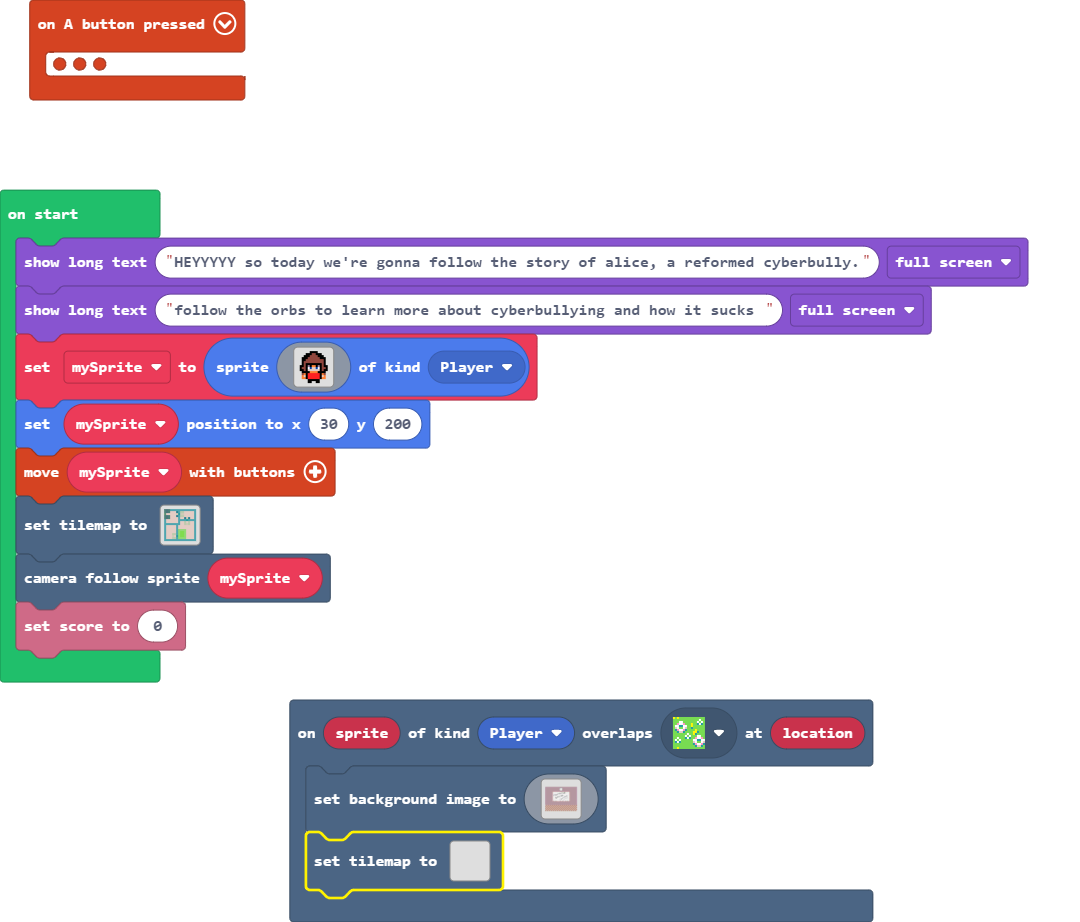
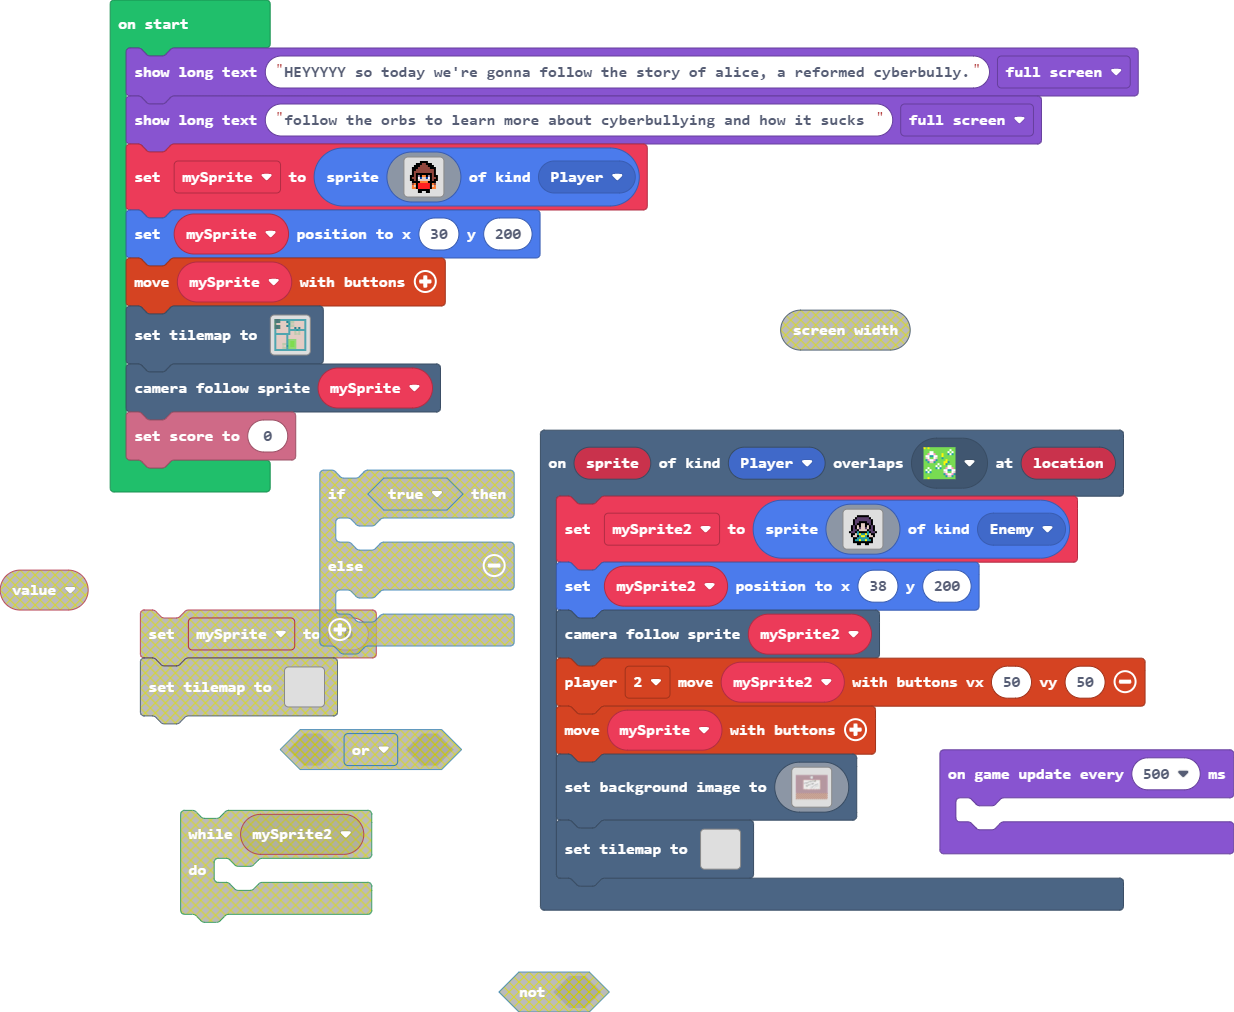
Update main.blocks, main.ts, tilemap.g.jres, tilemap.g.ts

diff --git a/main.ts b/main.ts
@@ -1,27 +1,29 @@
 namespace SpriteKind {
     export const bully = SpriteKind.create()
 }
-controller.A.onEvent(ControllerButtonEvent.Pressed, function () {
-    mySprite = sprites.create(img`
-        . . . . . . . . . . . . . . . . 
-        . . . . . . f f f f f f . . . . 
-        . . . . f f e e e e e e f . . . 
-        . . . f f e e e e e e e e f . . 
-        . . . f e e e e e e e e e e f . 
-        . . . f e e e e e e e e e e f . 
-        . . . f e e e e f f f f e e f . 
-        . . f f f f f f f e e e f f f . 
-        . . f f e 4 4 e b f 4 4 e e f . 
-        . . f e e 4 d 4 1 f d d e f . . 
-        . . . f e e e e e d d d f . . . 
-        . . . . . f 4 d d e 4 e f . . . 
-        . . . . . f e d d e 2 2 f . . . 
-        . . . . f f f e e f 2 2 f f . . 
-        . . . . f f f f f f f f f f . . 
-        . . . . . f f . . . f f f . . . 
-        `, SpriteKind.Player)
-})
 scene.onOverlapTile(SpriteKind.Player, sprites.castle.tileGrass2, function (sprite, location) {
+    mySprite2 = sprites.create(img`
+        . . . . . . . . . . . . . . . . 
+        . . . . . f f f f f f . . . . . 
+        . . . . f c c c c c c f . . . . 
+        . . . f c c c c c c c c f . . . 
+        . . . f c c f f f f c c f . . . 
+        . . . f c f f d d f f c f . . . 
+        . . f c f d f d d f d f c f . . 
+        . . f c f d c d d c d f c f . . 
+        . . f c c f d d d d f c c f . . 
+        . f c c f 6 f f f f 6 f c c f . 
+        . . f f d 6 5 6 6 5 6 d f f . . 
+        . . f d d f 6 5 5 6 f d d f . . 
+        . . . f f 6 6 6 6 6 6 f f . . . 
+        . . . f 6 6 5 6 6 5 6 6 f . . . 
+        . . . f f f f f f f f f f . . . 
+        . . . . . f f . . f f . . . . . 
+        `, SpriteKind.Enemy)
+    mySprite2.setPosition(38, 200)
+    scene.cameraFollowSprite(mySprite2)
+    controller.player2.moveSprite(mySprite2, 50, 50)
+    controller.moveSprite(mySprite)
     scene.setBackgroundImage(img`
         bbbbbbbbbbbbbbbbbbbbbbbbbbbbbbbbbbbbbbbbbbbbbbbbbbbbbbbbbbbbbbbbbbbbbbbbbbbbbbbbbbbbbbbbbbbbbbbbbbbbbbbbbbbbbbbbbbbbbbbbbbbbbbbbbbbbbbbbbbbbbbbbbbbbbbbbbbbbbbbb
         bbbbbbbbbbbbbbbbbbbbbbbbbbbbbbbbbbbbbbbbbbbbbbbbbbbbbbbbbbbbbbbbbbbbbbbbbbbbbbbbbbbbbbbbbbbbbbbbbbbbbbbbbbbbbbbbbbbbbbbbbbbbbbbbbbbbbbbbbbbbbbbbbbbbbbbbbbbbbbbb
@@ -144,8 +146,9 @@ scene.onOverlapTile(SpriteKind.Player, sprites.castle.tileGrass2, function (spri
         eeeeedddddeeeeedddddeeeeedddddeeeeedddddeeeeedddddeeeeedddddeeeeedddddeeeeedddddeeeeedddddeeeeedddddeeeeedddddeeeeedddddeeeeedddddeeeeedddddeeeeedddddeeeeeddddd
         eeeeedddddeeeeedddddeeeeedddddeeeeedddddeeeeedddddeeeeedddddeeeeedddddeeeeedddddeeeeedddddeeeeedddddeeeeedddddeeeeedddddeeeeedddddeeeeedddddeeeeedddddeeeeeddddd
         `)
-    tiles.setTilemap(tilemap`level5`)
+    tiles.setTilemap(tilemap`level7`)
 })
+let mySprite2: Sprite = null
 let mySprite: Sprite = null
 game.showLongText("HEYYYYY so today we're gonna follow the story of alice, a reformed cyberbully.", DialogLayout.Full)
 game.showLongText("follow the orbs to learn more about cyberbullying and how it sucks ", DialogLayout.Full)
@@ -172,3 +175,6 @@ controller.moveSprite(mySprite)
 tiles.setTilemap(tilemap`level1`)
 scene.cameraFollowSprite(mySprite)
 info.setScore(0)
+game.onUpdateInterval(500, function () {
+	
+})

diff --git a/tilemap.g.ts b/tilemap.g.ts
@@ -208,6 +208,44 @@ namespace myTiles {
 22222222222222222222222222222222222222222222222222222222222222222222222222222222
 22222222222222222222222222222222222222222222222222222222222222222222222222222222
 `, [myTiles.transparency16], TileScale.Sixteen);
+            case "level6":
+            case "level6":return tiles.createTilemap(hex`1000100000000000000000000000000000000000000000000000000000000000000000000000000000000000000000000000000000000000000000000000000000000000000000000000000000000000000000000000000000000000000000000000000000000000000000000000000000000000000000000000000000000000000000000000000000000000000000000000000000000000000000000000000000000000000000000000000000000000000000000000000000000000000000000000000000000000000000000000000000000000000000000000000000000000000000000000000000000000000000000000000000000000000000000000000000000000`, img`
+. . . . . . . . . . . . . . . . 
+. . . . . . . . . . . . . . . . 
+. . . . . . . . . . . . . . . . 
+. . . . . . . . . . . . . . . . 
+. . . . . . . . . . . . . . . . 
+. . . . . . . . . . . . . . . . 
+. . . . . . . . . . . . . . . . 
+. . . . . . . . . . . . . . . . 
+. . . . . . . . . . . . . . . . 
+. . . . . . . . . . . . . . . . 
+. . . . . . . . . . . . . . . . 
+. . . . . . . . . . . . . . . . 
+. . . . . . . . . . . . . . . . 
+. . . . . . . . . . . . . . . . 
+. . . . . . . . . . . . . . . . 
+. . . . . . . . . . . . . . . . 
+`, [myTiles.transparency16], TileScale.Sixteen);
+            case "level7":
+            case "level7":return tiles.createTilemap(hex`1000100000000000000000000000000000000000000000000000000000000000000000000000000000000000000000000000000000000000000000000000000000000000000000000000000000000000000000000000000000000000000000000000000000000000000000000000000000000000000000000000000000000000000000000000000000000000000000000000000000000000000000000000000000000000000000000000000000000000000000000000000000000000000000000000000000000000000000000000000000000000000000000000000000000000000000000000000000000000000000000000000000000000000000000000000000000000`, img`
+. . . . . . . . . . . . . . . . 
+. . . . . . . . . . . . . . . . 
+. . . . . . . . . . . . . . . . 
+. . . . . . . . . . . . . . . . 
+. . . . . . . . . . . . . . . . 
+. . . . . . . . . . . . . . . . 
+. . . . . . . . . . . . . . . . 
+. . . . . . . . . . . . . . . . 
+. . . . . . . . . . . . . . . . 
+. . . . . . . . . . . . . . . . 
+. . . . . . . . . . . . . . . . 
+. . . . . . . . . . . . . . . . 
+. . . . . . . . . . . . . . . . 
+. . . . . . . . . . . . . . . . 
+. . . . . . . . . . . . . . . . 
+2 2 2 2 2 2 2 2 2 2 2 2 2 2 2 2 
+`, [myTiles.transparency16], TileScale.Sixteen);
         }
         return null;
     })
